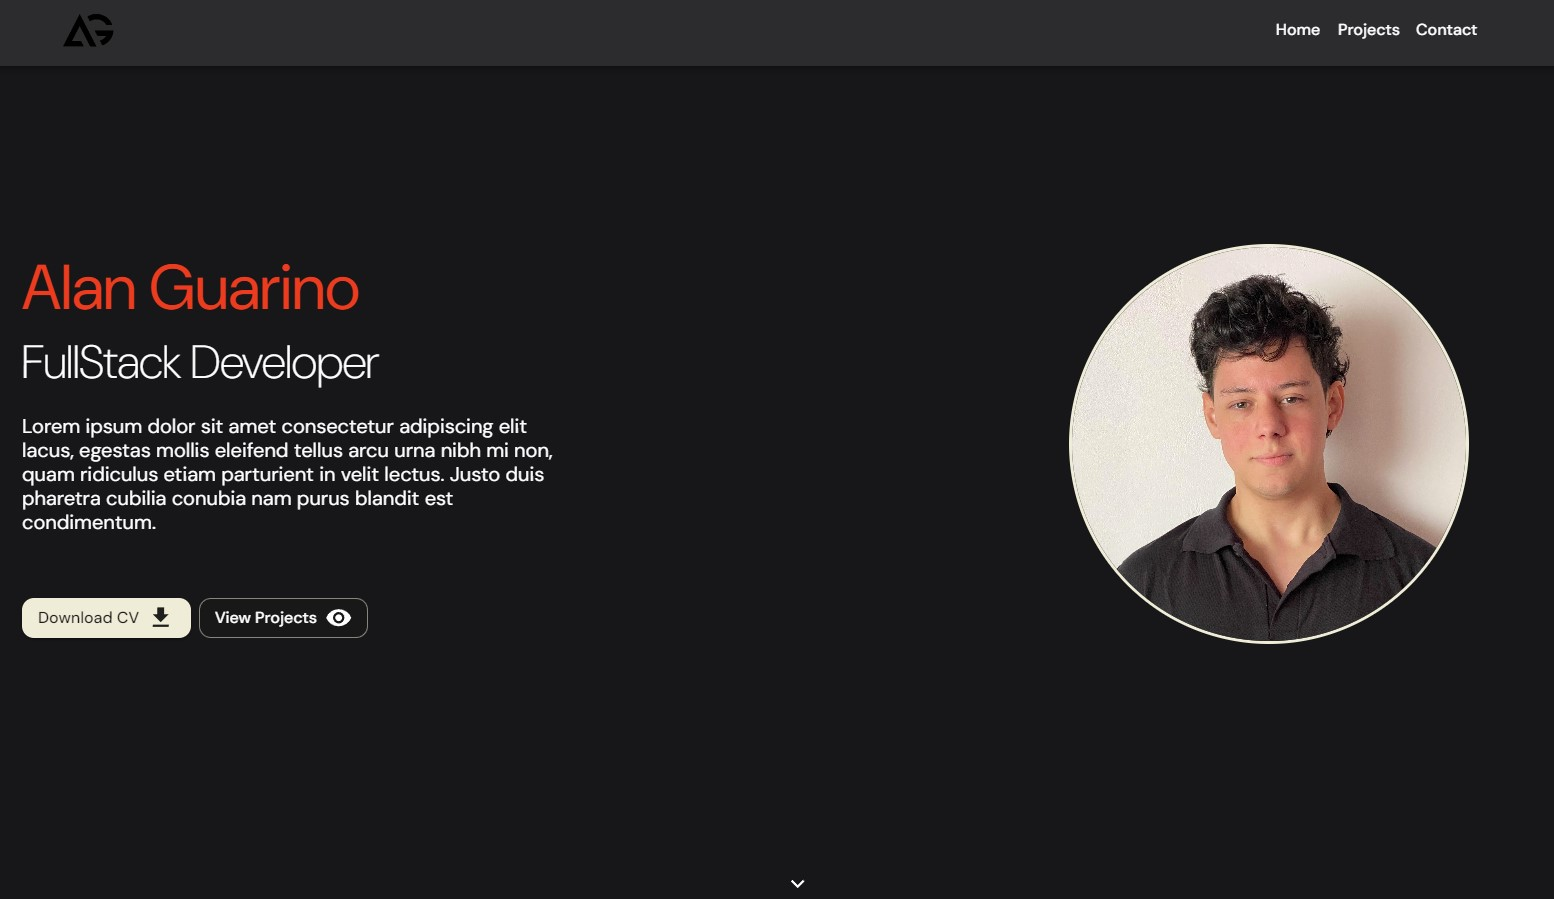
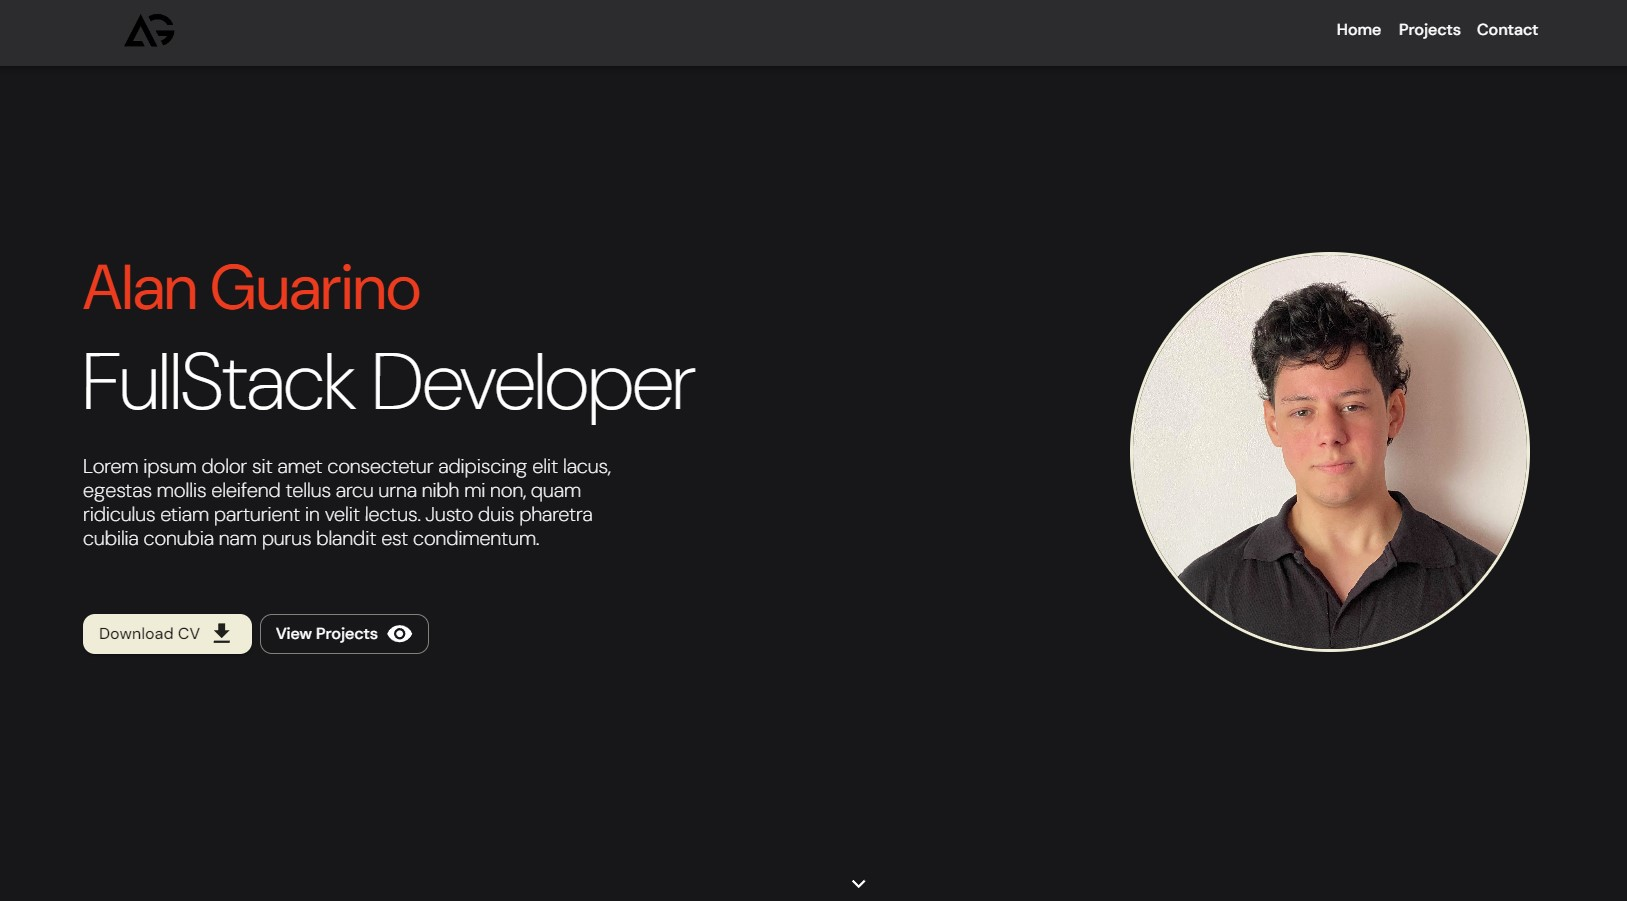
added some Typhography changes and Proyect link and image updates

diff --git a/src/components/Projects.jsx b/src/components/Projects.jsx
@@ -8,7 +8,7 @@ const Projects = ({ id }) => {
     <div id={id}>
       <Box>
         <Container>
-          <Typography variant="h2" sx={{ textAlign: "center", my: 4, m: 15 }}>
+          <Typography variant="h3" sx={{ textAlign: "center", my: 4, m: 15 }}>
             Projects
           </Typography>
           <Project
@@ -16,20 +16,23 @@ const Projects = ({ id }) => {
             description="I developed a Truco scorekeeper using Vanilla JavaScript and styled with Bulma CSS. This user-friendly tool enables real-time scoring adjustments, allowing you to customize the game to 15 or 30 points. With a responsive design, you can effortlessly use your mobile phone to track scores"
             img="src\assets\images\web-gradient-background.jpg"
             stack={["JavaScript", "BulmaCSS", "Git"]}
+            repoLink={"https://github.com/alanguarino/AnotadorDeTruco"}
           />
 
           <Project
             title="Extreme Shooter"
             description="Extreme Shooter, a 2D game I developed with my university team, is a testament to our proficiency in Object-Oriented Programming (OOP). Focused on principles like classes, polymorphism, and encapsulation, this project was executed in the Wollok language. Git version control streamlined collaboration, showcasing our commitment to efficient project management."
-            img="src\assets\images\web-gradient-background.jpg"
+            img="src\assets\images\extreme-shooter-image.png"
             stack={["Wollok"]}
+            repoLink={"https://github.com/algo1unsam/tp-game-s2-extremeshooter"}
           />
 
           <Project
             title="Portfolio Web"
             description="A project crafted and designed by me, utilizing React and Material-UI. I prioritize the implementation of reusable components to ensure an efficient structure and a clean, user-friendly interface design. This project is also a Single Page Application (SPA), providing a smooth and fluid user experience."
-            img="src\assets\images\web-gradient-background.jpg"
+            img="src\assets\images\portfolio-web-image.jpg"
             stack={["React", "MaterialUI", "Git"]}
+            repoLink={"https://github.com/alanguarino/my-portfolio-react"}
           />
         </Container>
       </Box>

diff --git a/src/components/Project.jsx b/src/components/Project.jsx
@@ -18,7 +18,7 @@ const Project = ({ title, description, img, stack, repoLink, deployLink }) => {
         mb: 15,
         bgcolor: "#565656", // Color gris claro de fondo
         backdropFilter: "blur(10px)",
-        boxShadow: 3,
+        boxShadow: 3, //para version light
         mt: 5, // Adjust the margin-top for larger screens
       }}
     >
@@ -27,7 +27,12 @@ const Project = ({ title, description, img, stack, repoLink, deployLink }) => {
         <img
           src={img}
           alt="Imagen"
-          style={{ width: "100%", objectFit: "cover", height: "100%" }}
+          style={{
+            width: "100%",
+            objectFit: "cover",
+            height: "100%",
+            border: "solid 3px",
+          }}
         />
       </Grid>
 

diff --git a/src/components/Homepage.jsx b/src/components/Homepage.jsx
@@ -39,10 +39,10 @@ const Homepage = ({ id }) => {
             src={"/src/assets/images/profile-pic.jpg"}
           />
           <Stack sx={{ ml: { md: 20 }, mt: { md: 15 } }}>
-            <Typography variant="h1" sx={{ mb: 1, color: "#f54703", mt: 5 }}>
+            <Typography variant="h2" sx={{ mb: 1, color: "#f54703", mt: 5 }}>
               {firstName}
             </Typography>
-            <Typography variant="h2" sx={{ mb: 3 }}>
+            <Typography variant="h1" sx={{ mb: 3 }}>
               {roleName}
             </Typography>
             <Typography variant="h6" sx={{ maxWidth: "60vh", mb: 8 }}>

diff --git a/src/utils/theme/typography.js b/src/utils/theme/typography.js
@@ -18,7 +18,7 @@ const themeTypography = {
   },
   h6: {
     fontSize: "1.15rem",
-    fontWeight: 400,
+    fontWeight: 200,
     lineHeight: 1.2,
   },
   h5: {
@@ -32,18 +32,18 @@ const themeTypography = {
     lineHeight: 1.2,
   },
   h3: {
-    fontSize: "2.2rem",
-    fontWeight: 500,
-    lineHeight: 1.2,
-  },
-  h2: {
-    fontSize: "3rem",
+    fontSize: "2.5rem",
     fontWeight: 200,
     lineHeight: 1.2,
   },
-  h1: {
+  h2: {
     fontSize: "4rem",
     fontWeight: 400,
+    lineHeight: 1.2,
+  },
+  h1: {
+    fontSize: "5rem",
+    fontWeight: 200,
     lineHeight: 1.2,
   },
   button: {

diff --git a/src/components/StackIcons.jsx b/src/components/StackIcons.jsx
@@ -6,9 +6,9 @@ const StackIcons = ({ id }) => {
     <Container id={id}>
       <Box>
         <Typography
-          variant="h2"
+          variant="h3"
           sx={{
-            m: { md: 15 },
+            m: { md: 10 },
             mt: { xs: 10, sm: 15 },
             mb: { xs: 5 },
             textAlign: "center",

diff --git a/src/components/ContactForm.jsx b/src/components/ContactForm.jsx
@@ -61,7 +61,7 @@ const Contact = () => {
   return (
     <div>
       <Card sx={{ p: 5, bgcolor: "transparent", backdropFilter: "blur(20px)" }}>
-        <Typography variant="h2" sx={{ mb: 3 }}>
+        <Typography variant="h3" sx={{ mb: 3 }}>
           Contact Me
         </Typography>
         <Box
